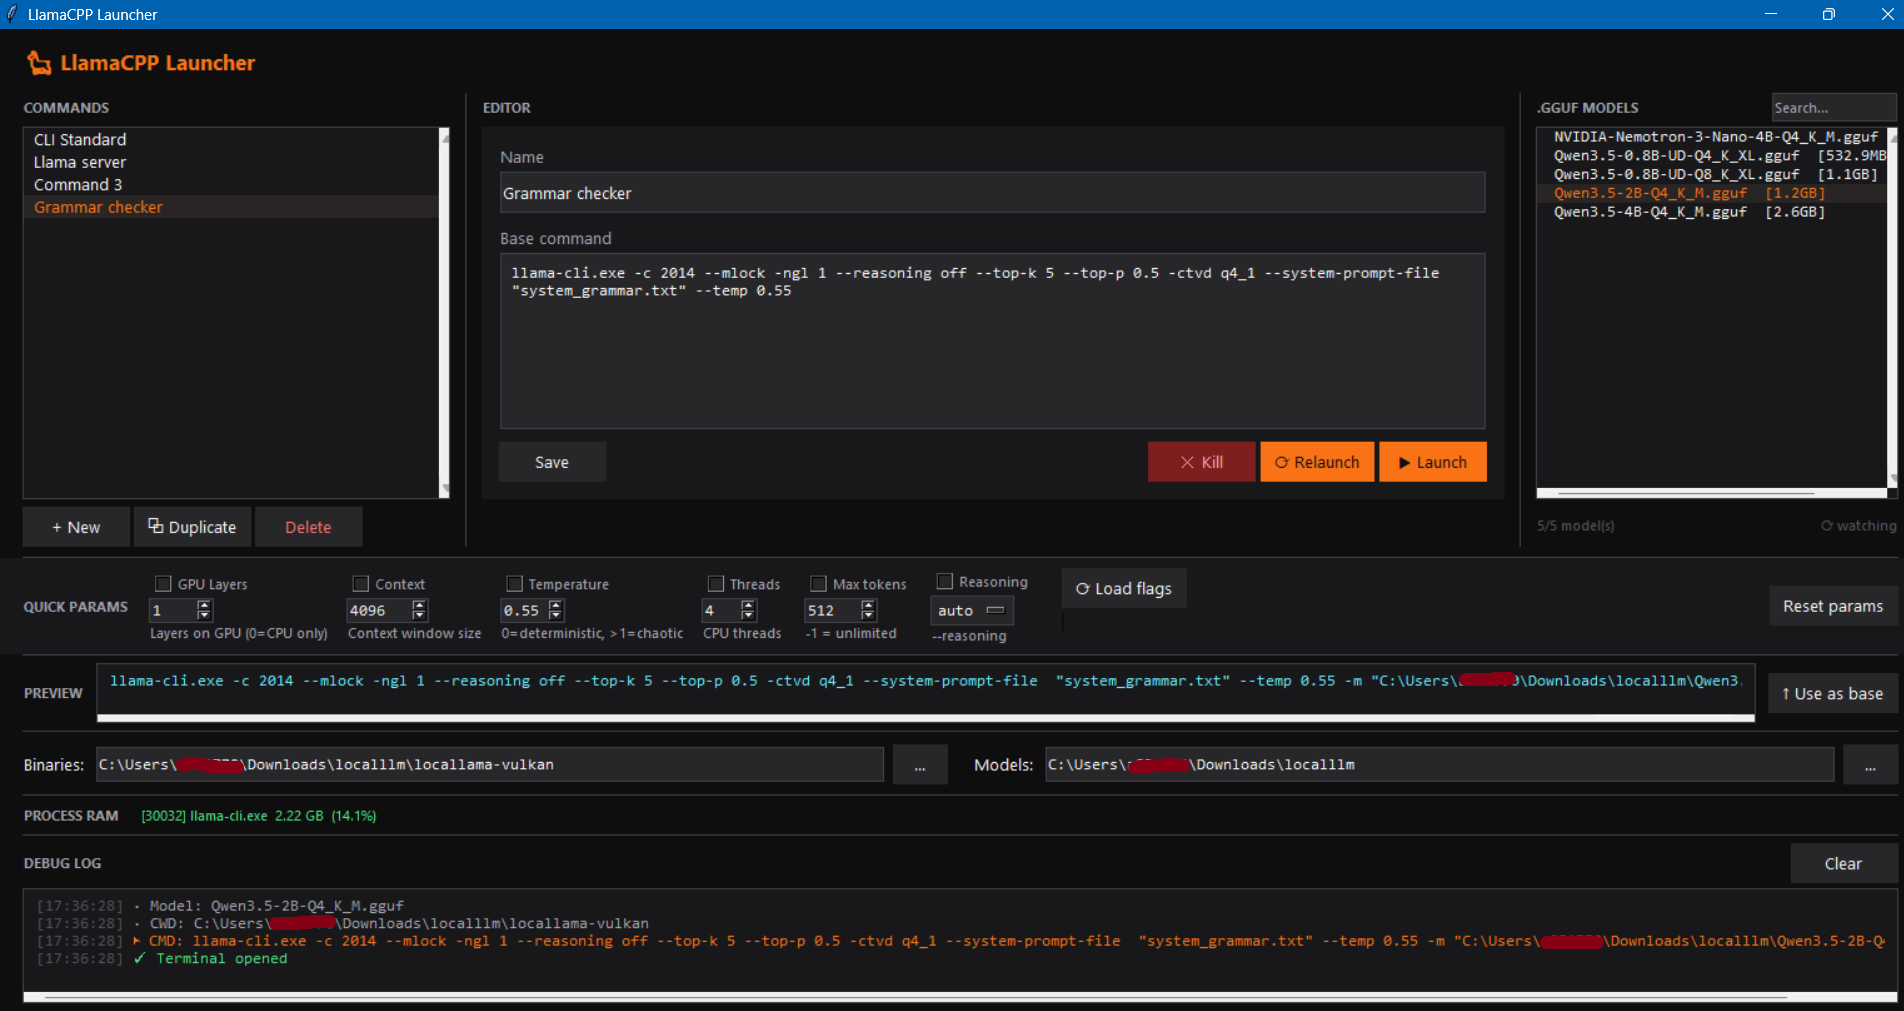
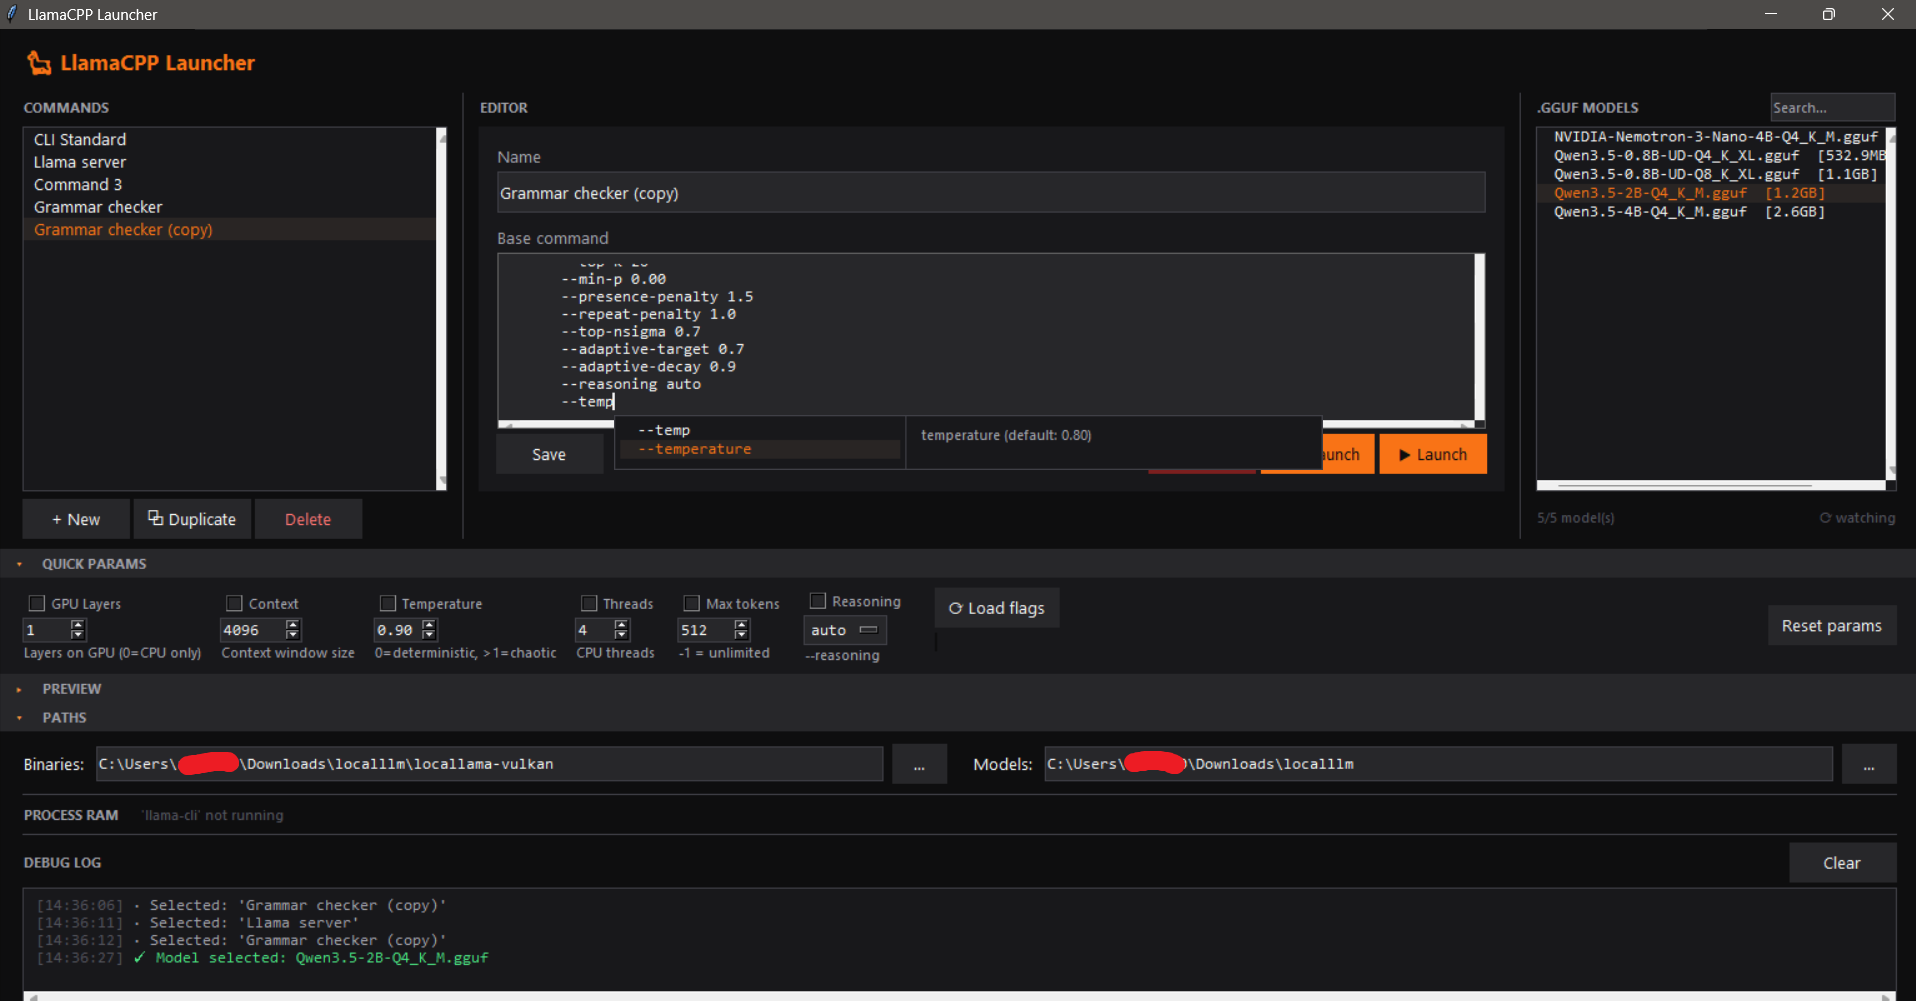
vim mode selector, new screenshot

diff --git a/README.md b/README.md
@@ -15,6 +15,8 @@ Just specify the binaries path and models path, then create commands, choose the
 
 ![](./img/screen1.png)
 
+![](./img/screen2.png)
+
 
 ## How to Run
 
